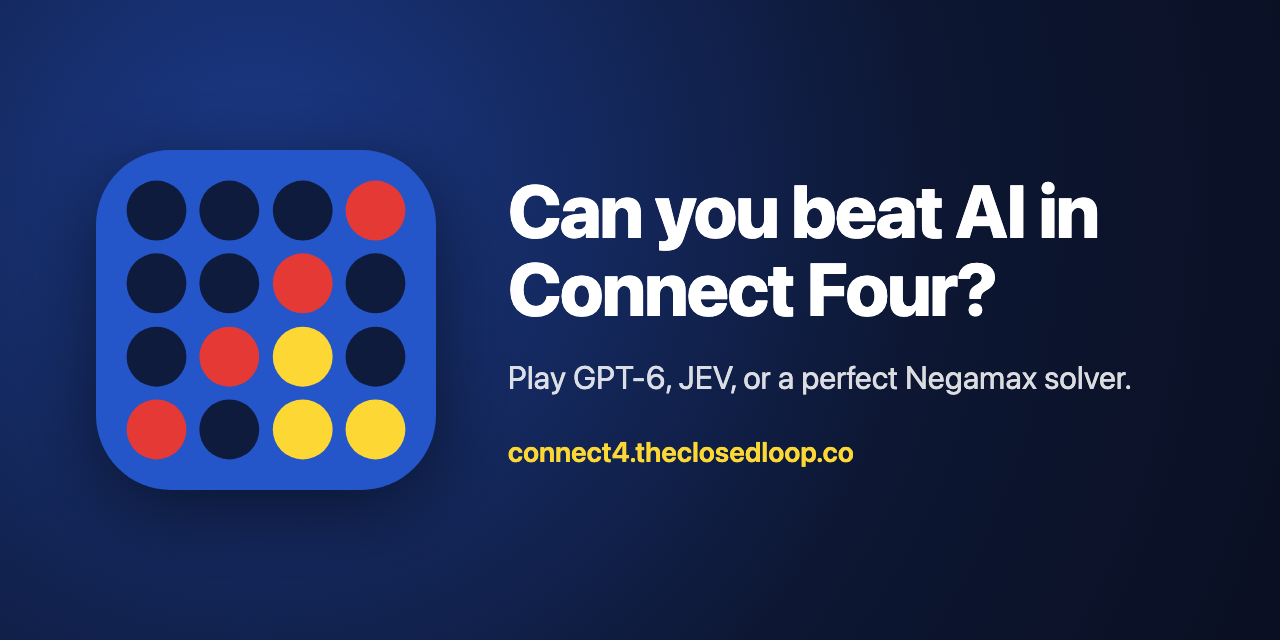
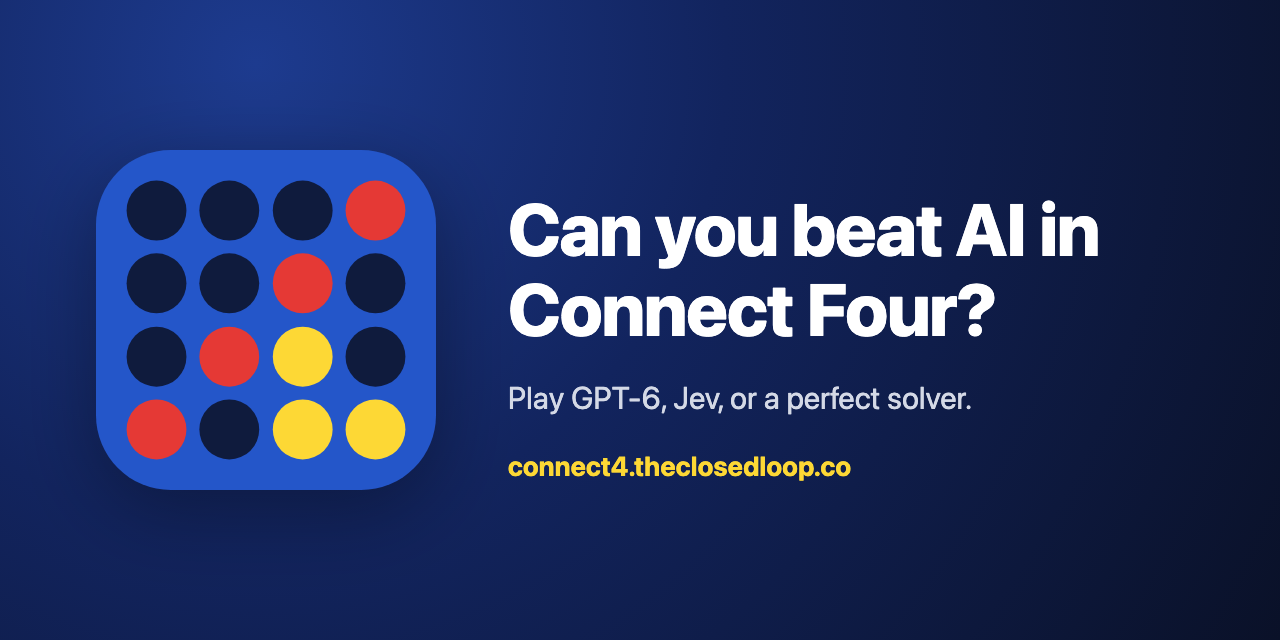
Rename JEV to Jev and the solver opponent to Solver; add opponent info link
- Jev and Solver in the UI, meta tags, README, and social preview image
- the solver's Web Worker is now solver-worker.ts, built to public/solver.js
- a previously saved solver opponent setting carries over
- (i) next to the Opponent picker links to the selected model's docs

Changed region(s): [[0.375, 0.0, 0.875, 0.6562], [0.375, 0.6875, 0.6875, 0.75]]

diff --git a/public/index.html b/public/index.html
@@ -4,12 +4,12 @@
 <meta charset="utf-8">
 <meta name="viewport" content="width=device-width, initial-scale=1">
 <title>Can you beat AI in Connect Four?</title>
-<meta name="description" content="Play Connect 4 against GPT-6, JEV, or a perfect Negamax solver.">
+<meta name="description" content="Play Connect 4 against GPT-6, Jev, or a perfect solver.">
 <link rel="icon" href="/favicon.svg" type="image/svg+xml">
 <link rel="apple-touch-icon" href="/apple-touch-icon.png">
 <meta name="theme-color" content="#2456c9">
 <meta property="og:title" content="Can you beat AI in Connect Four?">
-<meta property="og:description" content="Play GPT-6, JEV, or a perfect Negamax solver.">
+<meta property="og:description" content="Play GPT-6, Jev, or a perfect solver.">
 <meta property="og:image" content="https://connect4.theclosedloop.co/og.png">
 <meta property="og:url" content="https://connect4.theclosedloop.co">
 <meta name="twitter:card" content="summary_large_image">
@@ -60,6 +60,9 @@
   #repo:hover { opacity: 1; }
   #repo svg { width: 26px; height: 26px; fill: currentColor; }
   #celebration { position: fixed; inset: 0; width: 100%; height: 100%; pointer-events: none; z-index: 10; }
+  #info { display: inline-grid; place-items: center; width: 1.2em; height: 1.2em; border: 1.5px solid currentColor;
+          border-radius: 50%; color: inherit; opacity: .6; text-decoration: none; font: italic 600 .8rem Georgia, serif; }
+  #info:hover { opacity: 1; }
   #error { color: #e53935; font-size: .85rem; max-width: 460px; text-align: center; }
 </style>
 </head>
@@ -75,9 +78,10 @@
         <option value="luna">GPT-6 Luna</option>
         <option value="sol">GPT-6 Sol</option>
         <option value="astra">GPT-6 Astra</option>
-        <option value="jev">JEV</option>
-        <option value="negamax">Negamax</option>
+        <option value="jev">Jev</option>
+        <option value="solver">Solver</option>
       </select>
+      <a id="info" target="_blank" rel="noopener">i</a>
     </label>
     <label id="effortWrap">Thinking
       <select id="effort">
@@ -105,9 +109,17 @@
 const ROWS = 6, COLS = 7;
 const $ = (id) => document.getElementById(id);
 let board, over, busy;
-const NAMES = { luna: "GPT-6 Luna", sol: "GPT-6 Sol", astra: "GPT-6 Astra", jev: "JEV", negamax: "Negamax" };
+const NAMES = { luna: "GPT-6 Luna", sol: "GPT-6 Sol", astra: "GPT-6 Astra", jev: "Jev", solver: "Solver" };
+const INFO = {
+  luna: "https://platform.openai.com/docs/models/gpt-6-luna",
+  sol: "https://platform.openai.com/docs/models/gpt-6-sol",
+  astra: "https://platform.openai.com/docs/models/gpt-6-astra",
+  jev: "https://docs.typesafe.ai",
+  solver: "http://blog.gamesolver.org",
+};
 
 const settings = JSON.parse(localStorage.getItem("c4") || "{}");
+if (settings.engine === "negamax") settings.engine = "solver";
 settings.effort = { minimal: "none", xhigh: "high", max: "high" }[settings.effort] ?? settings.effort; // older versions
 for (const k of ["engine", "effort", "first", "music"]) {
   if (settings[k]) $(k).value = settings[k];
@@ -117,7 +129,11 @@ for (const k of ["engine", "effort", "first", "music"]) {
 // Astra is pinned to "low" server-side; show that, locked, without touching the saved choice.
 // The field always stays in place (greyed out when it doesn't apply) so the layout doesn't jump.
 function syncEffort() {
-  const engine = $("engine").value, fixed = { astra: "low", jev: "", negamax: "" }[engine];
+  const engine = $("engine").value;
+  $("info").href = INFO[engine];
+  $("info").setAttribute("aria-label", `About ${NAMES[engine]}`);
+  $("info").title = `About ${NAMES[engine]}`;
+  const fixed = { astra: "low", jev: "", solver: "" }[engine];
   $("effort").disabled = fixed !== undefined;
   $("effortWrap").classList.toggle("off", fixed !== undefined);
   $("effort").value = fixed ?? (["none", "low", "medium", "high"].includes(settings.effort) ? settings.effort : "medium");
@@ -198,7 +214,7 @@ async function aiTurn() {
   lock();
   const t = performance.now();
   try {
-    const data = $("engine").value === "negamax" ? await negamax(board) : await apiMove();
+    const data = $("engine").value === "solver" ? await solverMove(board) : await apiMove();
     const secs = ((performance.now() - t) / 1000).toFixed(1);
     const conf = data.confidence != null ? `, ${(data.confidence * 100).toFixed(0)}% confident` : data.detail ? `, ${data.detail}` : "";
     $("status").textContent = `${name} played column ${data.column + 1} (${secs}s${conf}). Your turn.`;
@@ -218,10 +234,10 @@ async function aiTurn() {
   }
 }
 
-// Negamax runs locally in a Web Worker; the transposition table persists between moves.
+// The solver runs locally in a Web Worker; the transposition table persists between moves.
 let solver;
-function negamax(board) {
-  solver ??= new Worker("/negamax.js");
+function solverMove(board) {
+  solver ??= new Worker("/solver.js");
   return new Promise((ok, fail) => {
     solver.onmessage = (e) => ok(e.data);
     solver.onerror = (e) => fail(new Error(e.message || "Solver failed"));

diff --git a/api.ts b/api.ts
@@ -1,5 +1,5 @@
 // API shared by the local Bun server (server.ts) and the Cloudflare Worker (worker.ts).
-// Negamax runs in the browser (negamax-worker.ts), so only the paid AIs live here.
+// The solver runs in the browser (solver-worker.ts), so only the paid AIs live here.
 //
 // Bot protection (enabled when TURNSTILE_SITE_KEY is set; fails closed if the
 // secrets are missing): the browser solves a Cloudflare Turnstile challenge once,
@@ -100,7 +100,7 @@ async function gptMove(b: Board, model: string, effort: string, key?: string) {
   return { column: JSON.parse(text).column - 1 };
 }
 
-// --- JEV ---------------------------------------------------------------------
+// --- Jev ---------------------------------------------------------------------
 // Jev is a System One model: fast judgment, no search, weak at counting/spatial
 // reading. Per TypeSafe's guidance the board facts are computed here and each
 // option describes what that move actually does; Jev judges which is best.
@@ -162,7 +162,7 @@ async function jevMove(b: Board, key?: string) {
     }),
   });
   const data: any = await res.json();
-  if (!res.ok) throw new Error(`JEV: ${data.error?.message ?? data.detail ?? res.status}`);
+  if (!res.ok) throw new Error(`Jev: ${data.error?.message ?? data.detail ?? res.status}`);
   const ans = data.answers.move;
   return { column: Number(String(ans.choice).replace("column_", "")) - 1, confidence: ans.confidence };
 }

diff --git a/solver-worker.ts b/solver-worker.ts
@@ -1,5 +1,5 @@
-// Web Worker running the Negamax solver in the browser, so it never blocks the
-// page and costs no server CPU. Built to public/negamax.js (`bun run build`).
+// Web Worker running the perfect solver in the browser, so it never blocks the
+// page and costs no server CPU. Built to public/solver.js (`bun run build`).
 import { bestMove } from "./solver";
 
 self.onmessage = (e: MessageEvent<{ board: string[][] }>) => {

diff --git a/README.md b/README.md
@@ -8,8 +8,8 @@ Play Connect Four against different AIs: **[connect4.theclosedloop.co](https://c
 | --- | --- |
 | GPT-6 Luna / Sol | OpenAI Responses API, adjustable thinking level |
 | GPT-6 Astra | OpenAI, pinned to low thinking (it's expensive) |
-| JEV | [TypeSafe](https://docs.typesafe.ai) System One model; code computes each move's tactical effect, Jev judges |
-| Negamax | Perfect solver after [Pascal Pons](http://blog.gamesolver.org): alpha-beta, bitboards, transposition table. Runs in your browser; falls back to a deep search in the opening |
+| Jev | [TypeSafe](https://docs.typesafe.ai) System One model; code computes each move's tactical effect, Jev judges |
+| Solver | Perfect play after [Pascal Pons](http://blog.gamesolver.org): alpha-beta, bitboards, transposition table. Runs in your browser; falls back to a deep search in the opening |
 
 No dependencies, just [Bun](https://bun.sh) and one HTML file. The optional background music (calm, energetic, happy, futuristic) is synthesized live with Web Audio, so there are no audio files either.
 
